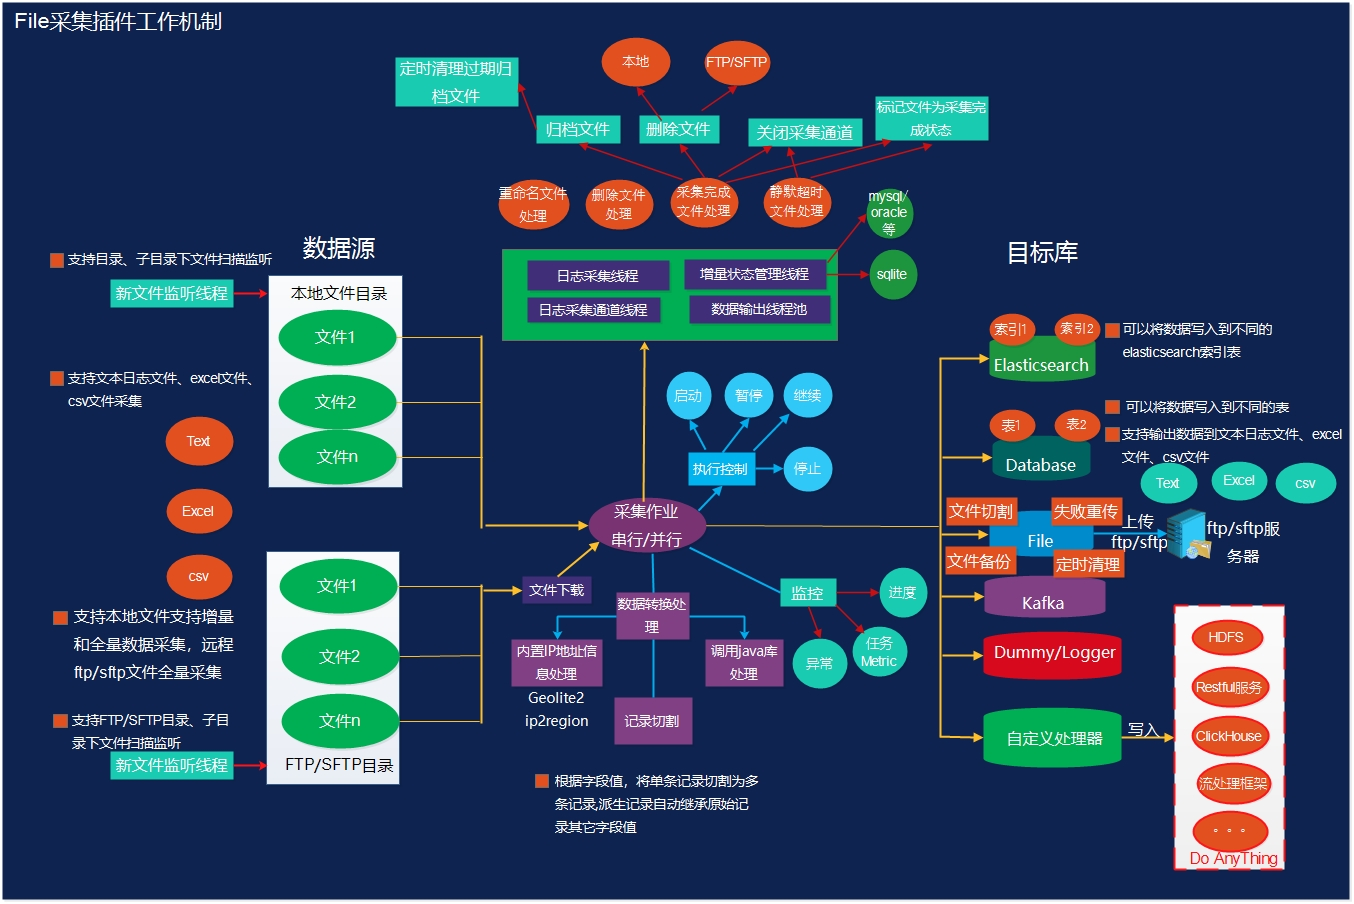
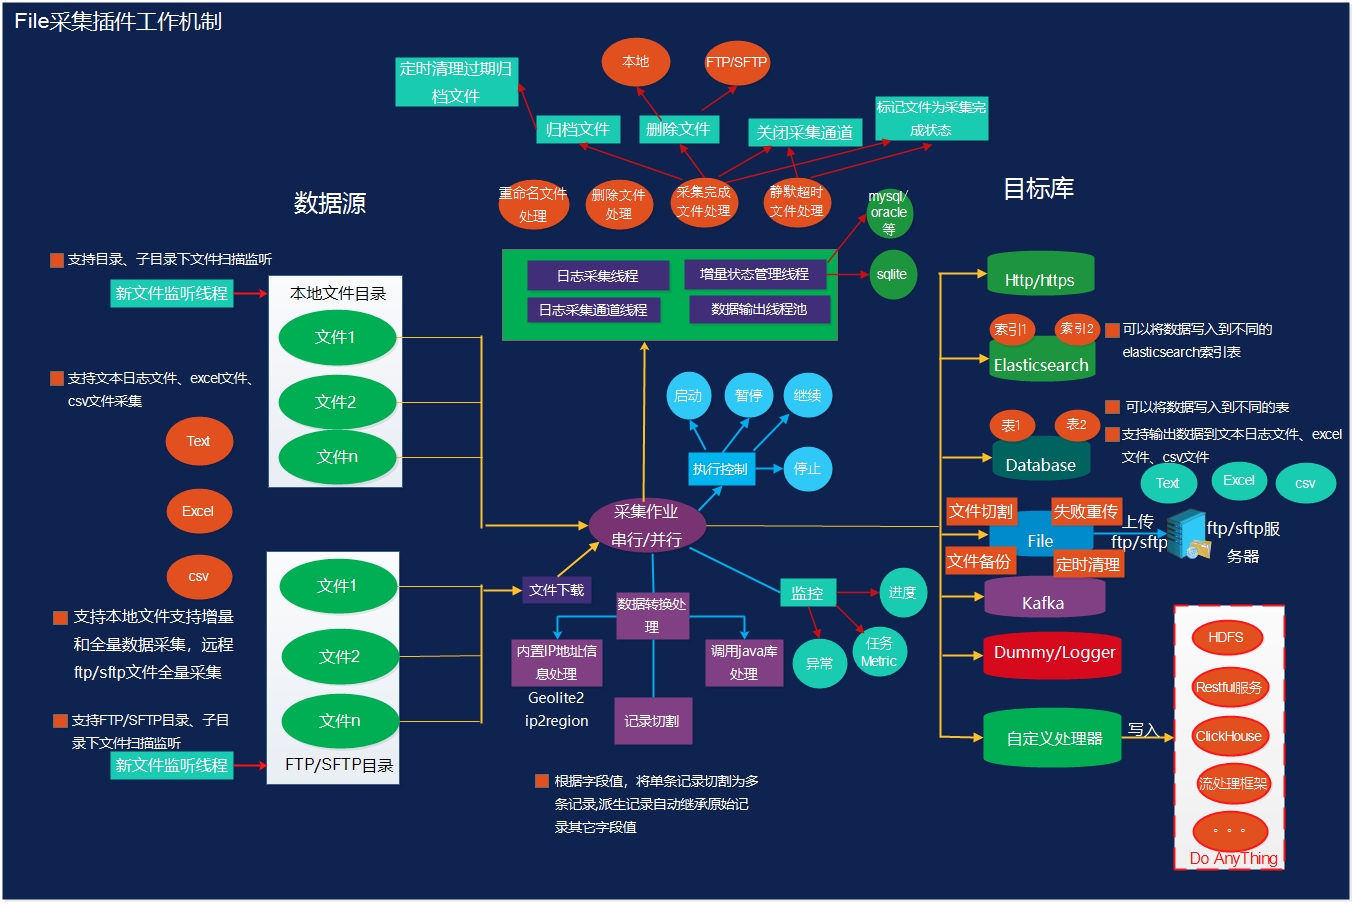
文档编写，添加http dsl脚本案例

Changed region(s): [[0.6824, 0.2478, 0.8065, 0.3717], [0.2171, 0.2168, 0.2792, 0.3407], [0.7445, 0.1858, 0.8065, 0.2168]]

diff --git a/docs/datatran-http.md b/docs/datatran-http.md
@@ -1,0 +1,121 @@
+# http/https插件使用指南
+
+通过bboss http输入/输出插件，可以从http服务采集数据，也可以从其他数据源采集的数据推送给http服务：
+
+1. 支持增量、全量数据采集同步，
+2. 支持分页模式采集数据
+3. 支持http服务高可用负载及容错机制，可以配置服务健康检查机制
+4. 支持post和put两种http method
+5. http输入插件，采用类似于Elasticsearch rest服务的dsl查询脚本语言，来传递http数据查询服务所需的参数、增量条件、分页条件
+
+bboss 输入/输出插件设计到三个主要的作业配置组件：
+
+1. ImportBuilder：数据同步作业构建器，用来进行作业基本配置，包括设置InputConfig、OutputConfig、数据转换处理配置、增量状态管理配置、定时器配置、任务监控配置、任务拦截器配置、并行处理线程池和队列配置、容错配置、提取数据条件配置等
+
+2. HttpInputConfig：http输入插件配置组件，包括http服务地址（多个用逗号分隔）、http连接池配置、http method配置、ssl证书配置、http链接池名称配置、提取数据dsl脚本设置等
+
+3. HttpOutputConfig：http输出插件配置组件，包括http服务地址（多个用逗号分隔）、http连接池配置、http method配置、ssl证书配置、http链接池名称配置、提取数据dsl脚本设置等
+
+http数据同步作业包含作业配置态和作业运行态，具体看如下示意图
+
+![](images\datasyn-inout.png)
+**配置态：**指通过作业构建器ImportBuilder配置http数据采集作业的基础配置、输入和输出配置
+
+**运行态：**通过ImportBuilder构建一个Datatream，加载作业配置，启动作业并执行数据采集、数据处理、数据输出，从而实现整个数据采集同步功能。
+
+下面具体介绍http插件使用方法
+
+# 1.作业基础配置
+
+```java
+创建一个作业构建器
+ImportBuilder importBuilder = new ImportBuilder() ;
+```
+
+| 属性名称                | 类型                | 说明                                                         |
+| ----------------------- | ------------------- | ------------------------------------------------------------ |
+| FetchSize               | int                 | 按批获取数据记录数大小，importBuilder.setFetchSize(5000)     |
+| BatchSize               | int                 | 按批输出数据记录数待续，importBuilder.setBatchSize(1000)     |
+| InputConfig             | InputConfig         | 设置输入插件配置，importBuilder.setInputConfig(httpInputConfig); |
+| OutputConfig            | OutputConfig        | 设置输出插件配置，importBuilder.setOutputConfig(elasticsearchOutputConfig); |
+| addParam                | 方法                | 为查询类作业添加额外的查询条件参数importBuilder.addParam("otherParam","陈雨菲2:0战胜戴资颖"); |
+| UseJavaName             | boolean             | 可选项,将数据库字段名称转换为java驼峰规范的名称，true转换，false不转换，默认false，例如:doc_id -> docId |
+| UseLowcase              | boolean             | 可选项，true 列名称转小写，false列名称不转换小写，默认false，只要在UseJavaName为false的情况下，配置才起作用 |
+| PrintTaskLog            | boolean             | 可选项，true 打印任务执行日志（耗时，处理记录数） false 不打印，默认值false |
+| FixedRate               | boolean             | 参考jdk timer task文档对fixedRate的说明                      |
+| DeyLay                  | long                | 任务延迟执行deylay毫秒后执行                                 |
+| Period                  | long                | 每隔period毫秒执行，如果不设置，只执行一次                   |
+| ScheduleDate            | date                | 指定任务开始执行时间：日期                                   |
+| addCallInterceptor      | CallInterceptor     | 设置任务执行拦截器，可以添加多个，定时任务每次执行的拦截器   |
+| LastValueColumn         | String              | 指定数字增量查询字段                                         |
+| FromFirst               | boolean             | false 如果作业停了，作业重启后从上次截止位置开始采集数据，true 如果作业停了，作业重启后，重新开始采集数据 |
+| StatusDbname            | String              | 设置增量状态数据源名称                                       |
+| LastValueStorePath      | String              | 记录上次采集的增量字段值的文件路径，作为下次增量（或者重启后）采集数据的起点，不同的任务这个路径要不一样 |
+| LastValueStoreTableName | String              | 记录上次采集的增量字段值的表，可以不指定，采用默认表名increament_tab |
+| LastValueType           | int                 | 指定字段类型：ImportIncreamentConfig.NUMBER_TYPE 数字类型，ImportIncreamentConfig.TIMESTAMP_TYPE 日期类型 |
+| IncreamentEndOffset     | int                 | 单位：秒，日期类型增量导入，可以设置一个导入截止时间偏移量。引入IncreamentEndOffset配置，主要是增量导出时，考虑到elasticsearch、mongodb这种存在写入数据的延迟性的数据库，设置一个相对于当前时间偏移量导出的截止时间，避免增量导出时遗漏数据。 |
+| addFieldMapping         | 方法                | 手动设置字段名称映射，将源字段名称映射为目标字段名称importBuilder.addFieldMapping("document_id","docId") |
+| addIgnoreFieldMapping   | 方法                | 添加忽略字段，importBuilder.addIgnoreFieldMapping("channel_id"); |
+| addFieldValue           | 方法                | 添加全局字段和值，为每条记录添加额外的字段和值，可以为基本数据类型，也可以是复杂的对象mportBuilder.addFieldValue("testF1","f1value"); |
+| DataRefactor            | DataRefactor        | 通过DataRefactor，对数据记录进行数据转换、清洗、加工操作，亦可以对数据进行记录级别的处理，比如添加字段、去除字段、忽略记录、类型转换等 |
+| Parallel                | boolean             | 设置为多线程并行批量导入,false串行 true并行                  |
+| Queue                   | int                 | 设置批量导入线程池等待队列长度                               |
+| ThreadCount             | int                 | 设置批量导入线程池工作线程数量                               |
+| ContinueOnError         | boolean             | 任务出现异常，是否继续执行作业：true（默认值）继续执行 false 中断作业执行 |
+| Asyn                    | boolean             | true 异步方式执行，不等待所有导入作业任务结束，方法快速返回；false（默认值） 同步方式执行，等待所有导入作业任务结束，所有作业结束后方法才返回 |
+| ExportResultHandler     | ExportResultHandler | 设置任务执行结果以及异常回调处理函数，函数实现接口即可       |
+| builder                 | 方法                | 构建DataStream 执行数据库表数据导入es操作  ： DataStream dataStream = importBuilder.builder(); dataStream.execute();//执行导入操作 |
+
+
+
+# 2.http输入插件
+
+http输入插件采用类似于Elasticsearch rest服务的dsl查询脚本语言，来传递http数据查询服务所需的参数、增量条件、分页条件，属性说明如下：
+
+```java
+//创建输入插件Config实例
+HttpInputConfig httpInputConfig = new HttpInputConfig();
+```
+
+
+
+| 属性名称              | 类型    | 说明                                                         |
+| --------------------- | ------- | ------------------------------------------------------------ |
+| sourceHttpPool        | String  | 源http连接池服务组名称                                       |
+| addHttpInputConfig    | 方法    | 添加http服务参数、服务地址、监控检查机制,例如: httpInputConfig.setQueryUrl("/httpservice/getData.api") .addSourceHttpPoolName("http.poolNames","datatran") .addHttpInputConfig("datatran.http.health","/health") .addHttpInputConfig("datatran.http.hosts","192.168.137.1:808") .addHttpInputConfig("datatran.http.timeoutConnection","5000") .addHttpInputConfig("datatran.http.timeoutSocket","50000") .addHttpInputConfig("datatran.http.connectionRequestTimeout","50000") .addHttpInputConfig("datatran.http.maxTotal","200") .addHttpInputConfig("datatran.http.defaultMaxPerRoute","100") .addHttpInputConfig("datatran.http.failAllContinue","true");                                参考文档：https://esdoc.bbossgroups.com/#/httpproxy |
+| addSourceHttpPoolName | 方法    | 添加http服务组属性参数：httpInputConfig.addSourceHttpPoolName("http.poolNames","datatran") |
+| showDsl               | boolean | 控制作业执行时，是否打印查询的dsl脚本，true 打印，false 不打印，默认值false |
+| dslFile               | String  | querydsl脚本配置文件路径，在classes路径下                    |
+| queryDslName          | String  | querydsl脚本名称，脚本配置规范，可以参考文档：https://esdoc.bbossgroups.com/#/development  章节【[5.3 dsl配置规范](https://esdoc.bbossgroups.com/#/development?id=_53-dsl配置规范)】 |
+| queryDsl              | String  | 直接设置queryDsl脚本，脚本配置规范，可以参考文档：https://esdoc.bbossgroups.com/#/development  章节【[5.3 dsl配置规范](https://esdoc.bbossgroups.com/#/development?id=_53-dsl配置规范)】 |
+| httpMethod            | String  | http请求method，支持两种：put，post                          |
+| pageSize              | int     | 无需显示指定，按批获取数据记录数大小，通过importBuilder.setFetchSize(5000)设置 |
+| httpPagineFrom        | int     | 分页查询起始位置，默认从0开始，如果服务支持分页获取增量或者全量数据，设置分页起始位置 |
+| pagine                | boolean | 分页查询控制变量，false 不分页，true 分页，默认值false，     |
+| httpPagineSize        | int     | 如果服务支持分页获取增量或者全量数据，设置每页记录数，如果实际返回的记录数小于httpPagineSize或者为0，则表示本次分页获取数据结束，对应参数fetchSize配置的值 |
+
+带分页的querydsl脚本案例：
+
+```json
+{
+    "logTime":#[logTime],## 传递增量时间起始条件
+    "logTimeEndTime":#[logTime__endTime],## 传递增量时间截止时间条件，必须指定IncreamentEndOffset偏移时间量才能设置增量截止时间
+    "from":#[httpPagineFrom], ## 如果服务支持分页获取增量或者全量数据，设置分页起始位置
+    "size":#[httpPagineSize],  ## 如果服务支持分页获取增量或者全量数据，设置每页记录数，如果实际返回的记录数小于httpPagineSize或者为0，则表示本次分页获取数据结束，对应参数fetchSize配置的值
+    "otherParam": #[otherParam] ## 其他服务参数
+}
+```
+
+# 3.http输出插件
+
+
+
+# 4.案例
+
+## 4.1 http输入插件案例
+
+## 4.2 http输出插件案例
+
+
+
+## 4.3 案例发布运行

diff --git a/docs/_sidebar.md b/docs/_sidebar.md
@@ -61,6 +61,7 @@
     - [基于xxl-job数据同步作业调度](xxljobdatasyn.md)
     - [基于quartz调度数据同步作业](datasyn-quartz.md)
     - [Elasticsearch-Kafka数据同步作业](es-kafka.md)
+    - [http服务输入输出插件使用指南](datatran-http.md)
   - [Elasticsearch关键词高亮检索](highlight.md)
   - [Elasticsearch索引表和索引表模板管理](index-indextemplate.md)
   - [Elasticsearch update/delete by querey](update-delete-byquery.md)
